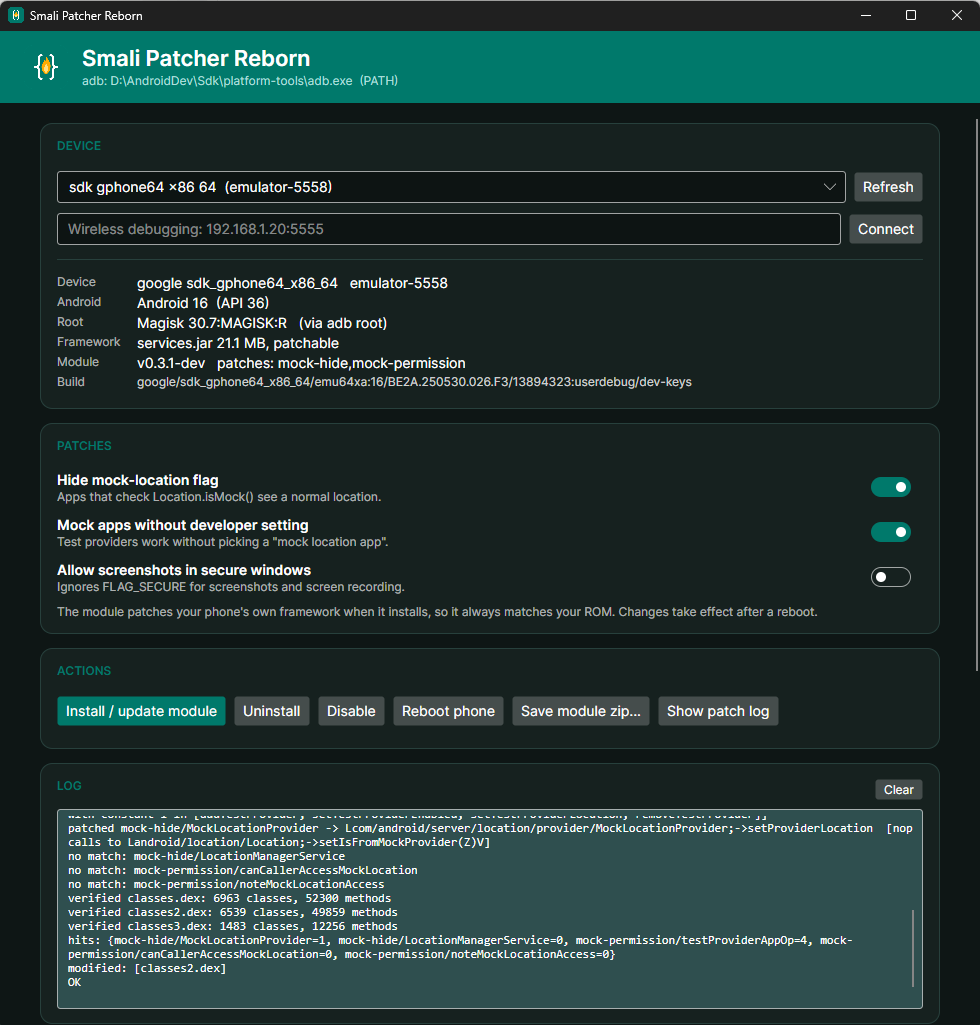
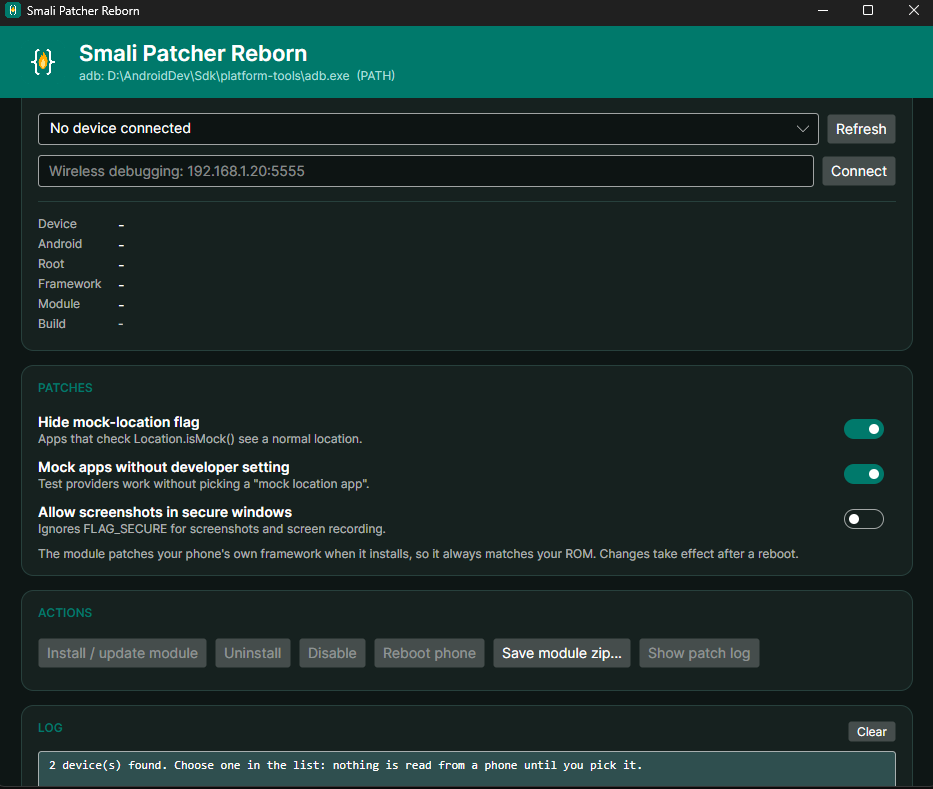
README: new app screenshots (main and About)

diff --git a/README.md b/README.md
@@ -4,11 +4,13 @@ Patch your phone's own Android framework **on the phone**, as a Magisk / KernelS
 
 A desktop app (Windows, Linux, macOS) installs and manages it. The module can also be flashed on its own with no PC.
 
-> **Status: 0.3.0-dev, early release.** Tested on Android emulators and on two physical phones (below). Read [Safety](#safety) first.
+> **Status: 0.3.2-dev, early release.** Tested on Android emulators and on two physical phones (below). Read [Safety](#safety) first.
 
 ![Smali Patcher Reborn desktop app](docs/img/app-main.png)
 
-*The desktop app on an Android 16 emulator: device details, patch switches, one-click install and the patch log.*
+*The desktop app: pick a device, switch patches on or off, install the module in one click. Below it: manual jar patching and the About section.*
+
+![About and manual patch section](docs/img/app-about.png)
 
 ## What it does
 
